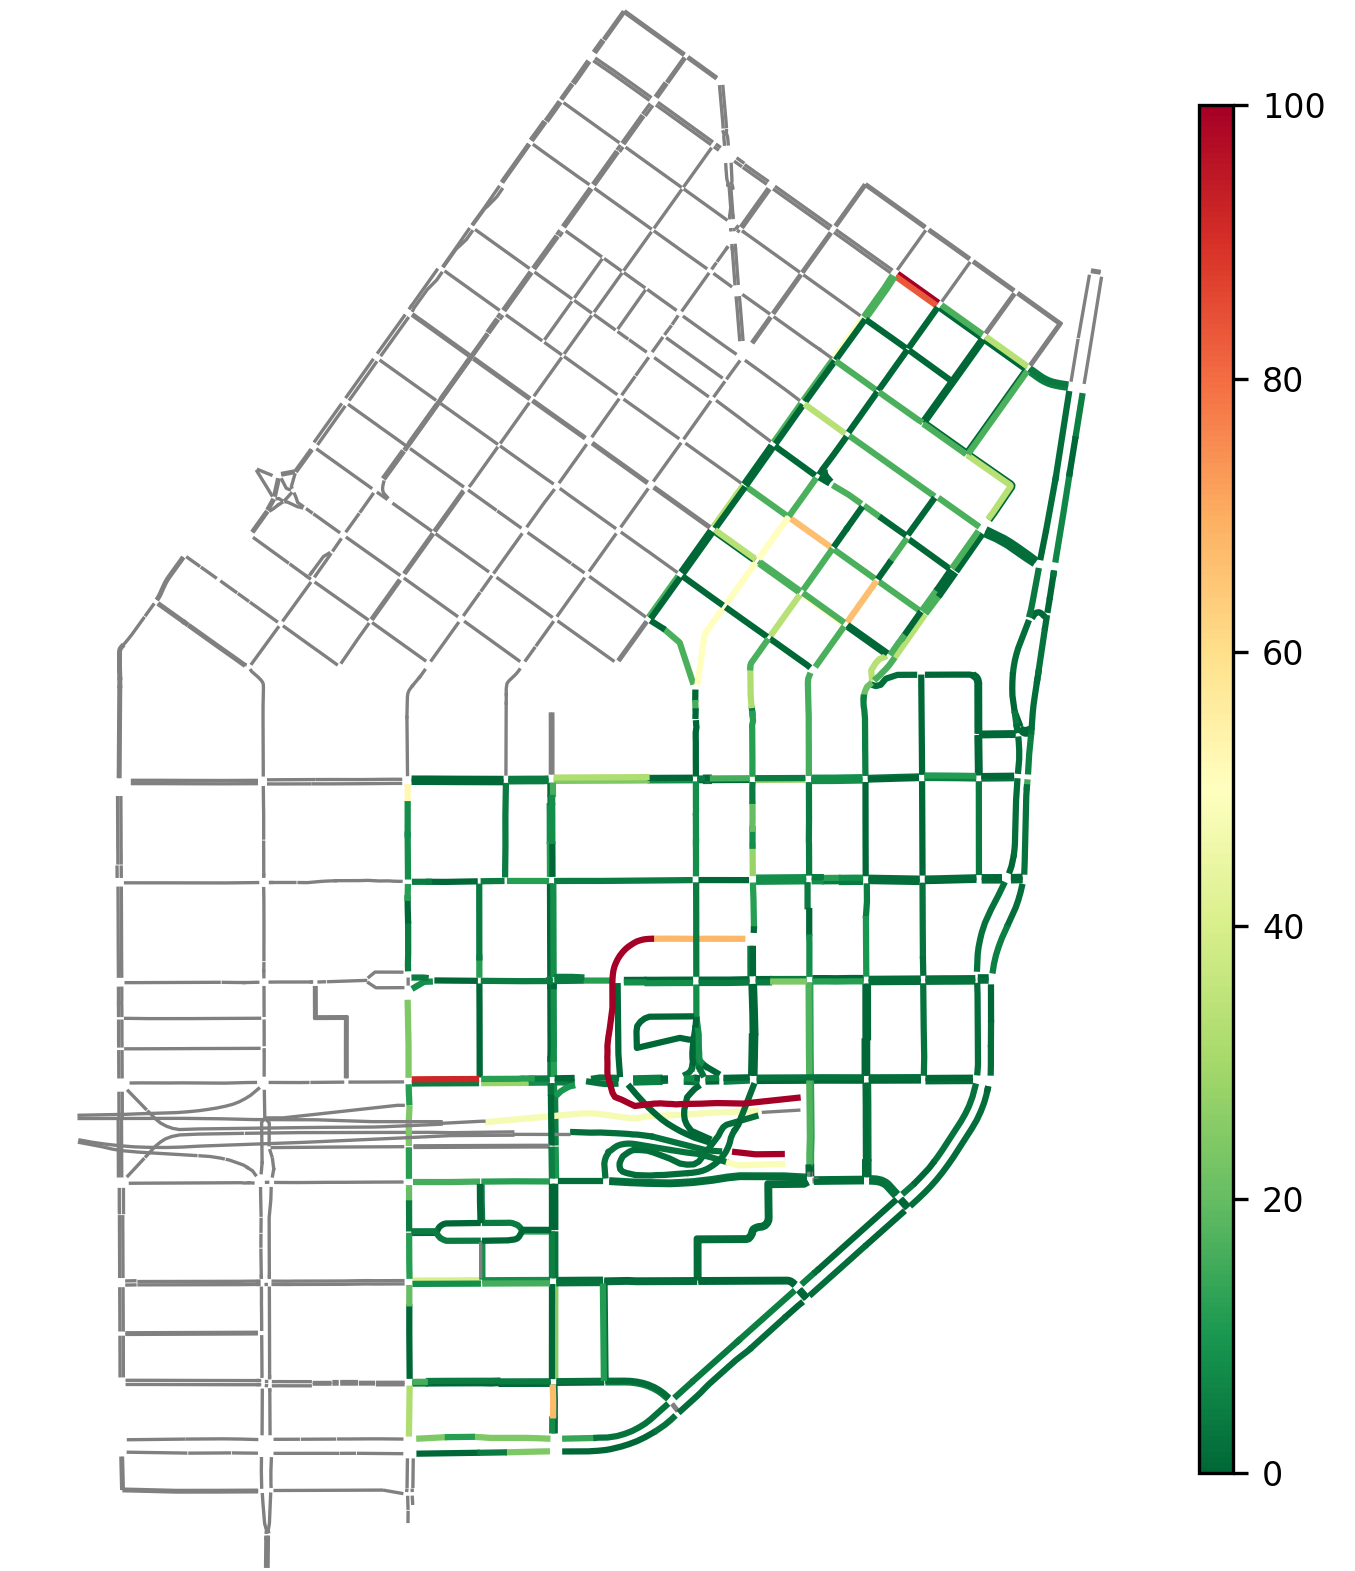
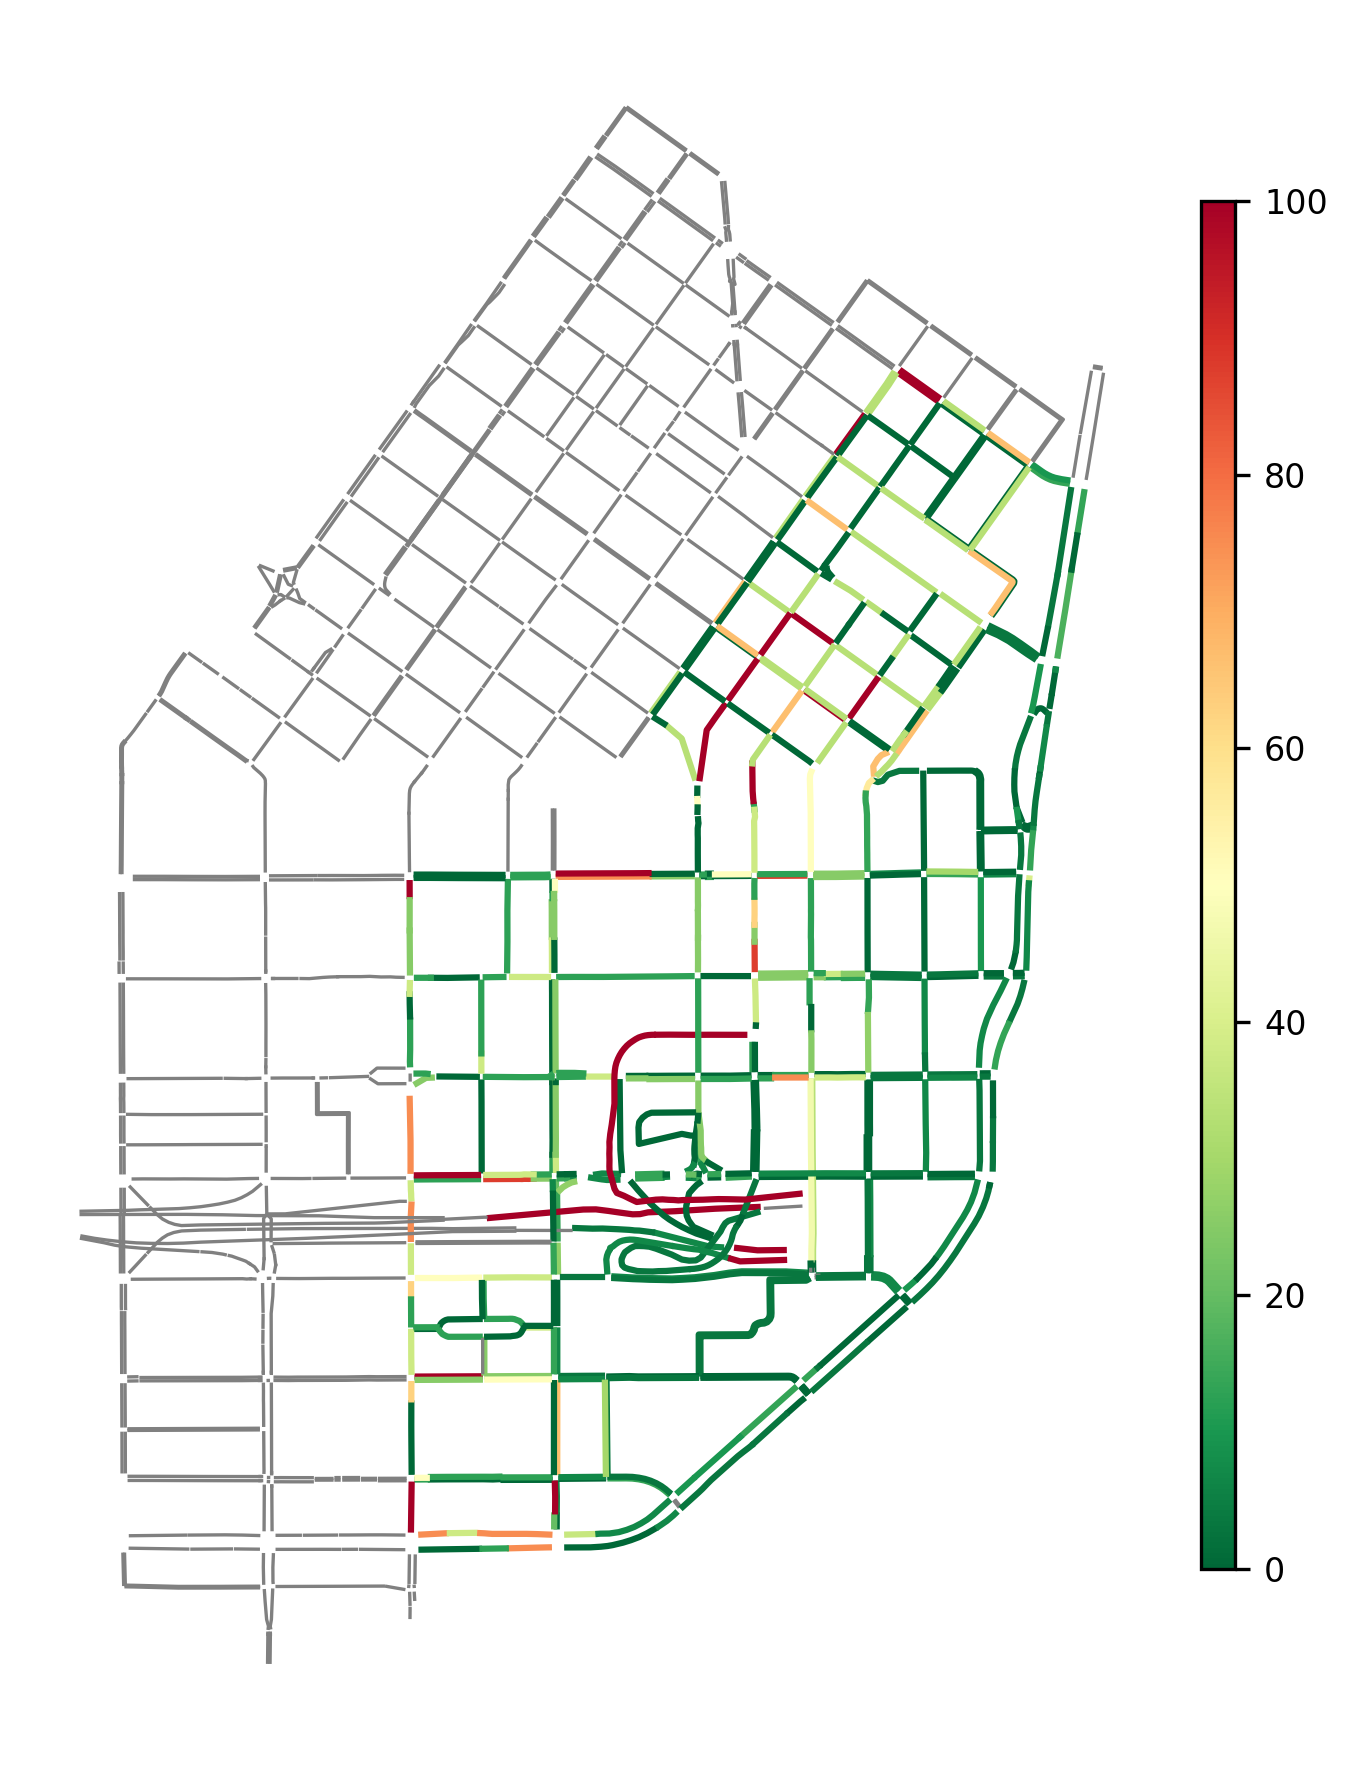
update figure

diff --git a/README.md b/README.md
@@ -34,9 +34,9 @@ Building on this observation, queue balancing strategies which yield measurable 
 Ultimately, the proposed framework contributes toward equitable control design for emerging, intelligent transportation systems, and higher user acceptance for those. 
         </td>
         <td style="width:50%; text-align:center; vertical-align:top;">
-<img src="figures/Figure_Animation.gif" style="width:100%;" />
-<img src="figures/Figure_1.png" style="width:80%;" />
-<img src="figures/Figure_3.png" style="width:80%;" />
+<img src="figures/Figure_Animation.gif" style="width:80%;" />
+<img src="figures/Figure_1.png" style="width:50%;" />
+<img src="figures/Figure_3.png" style="width:50%;" />
         </td>
     </tr>
 </table>
